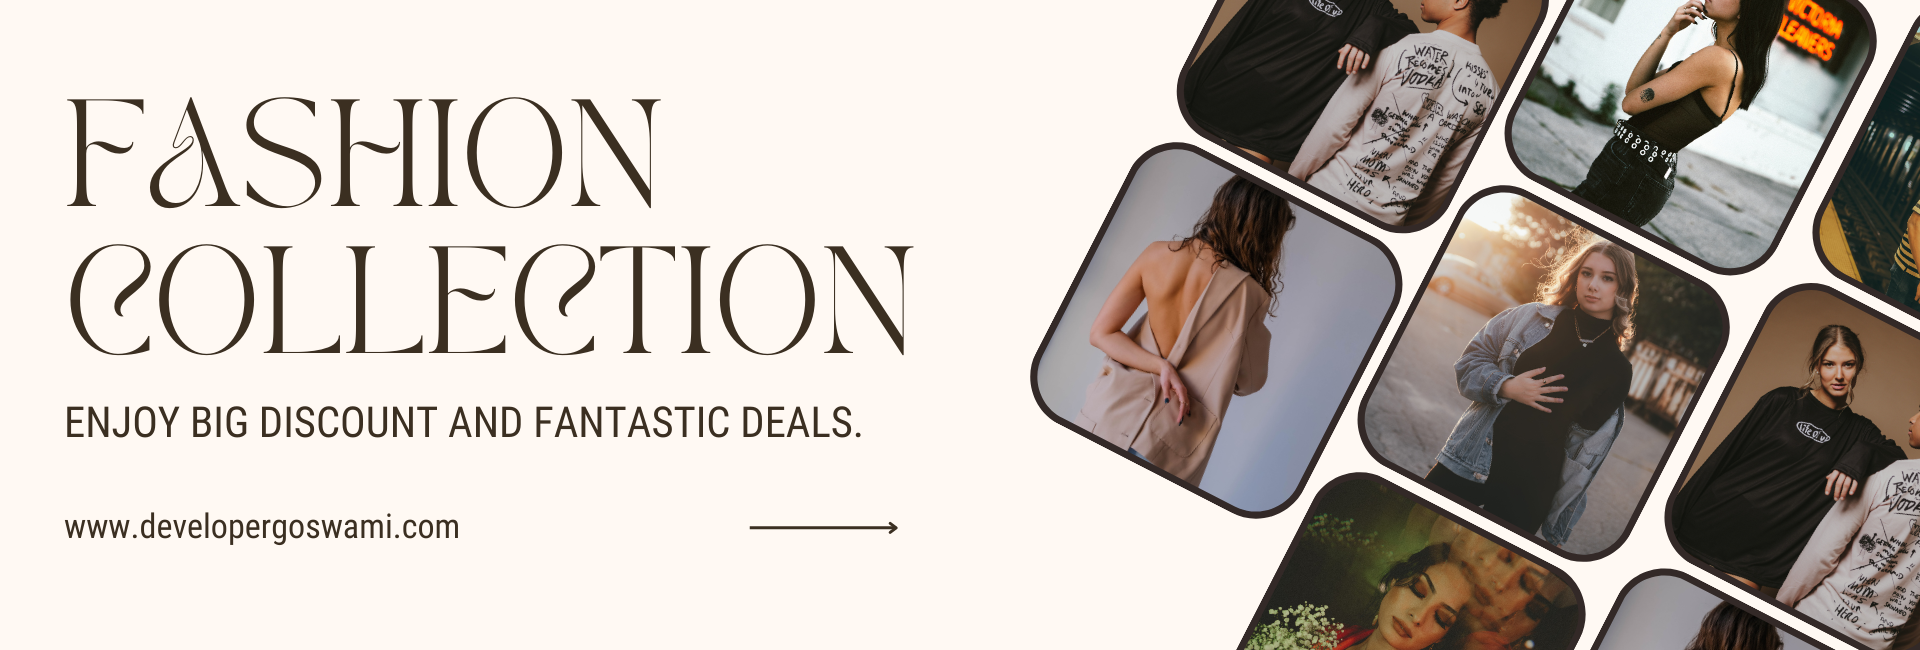
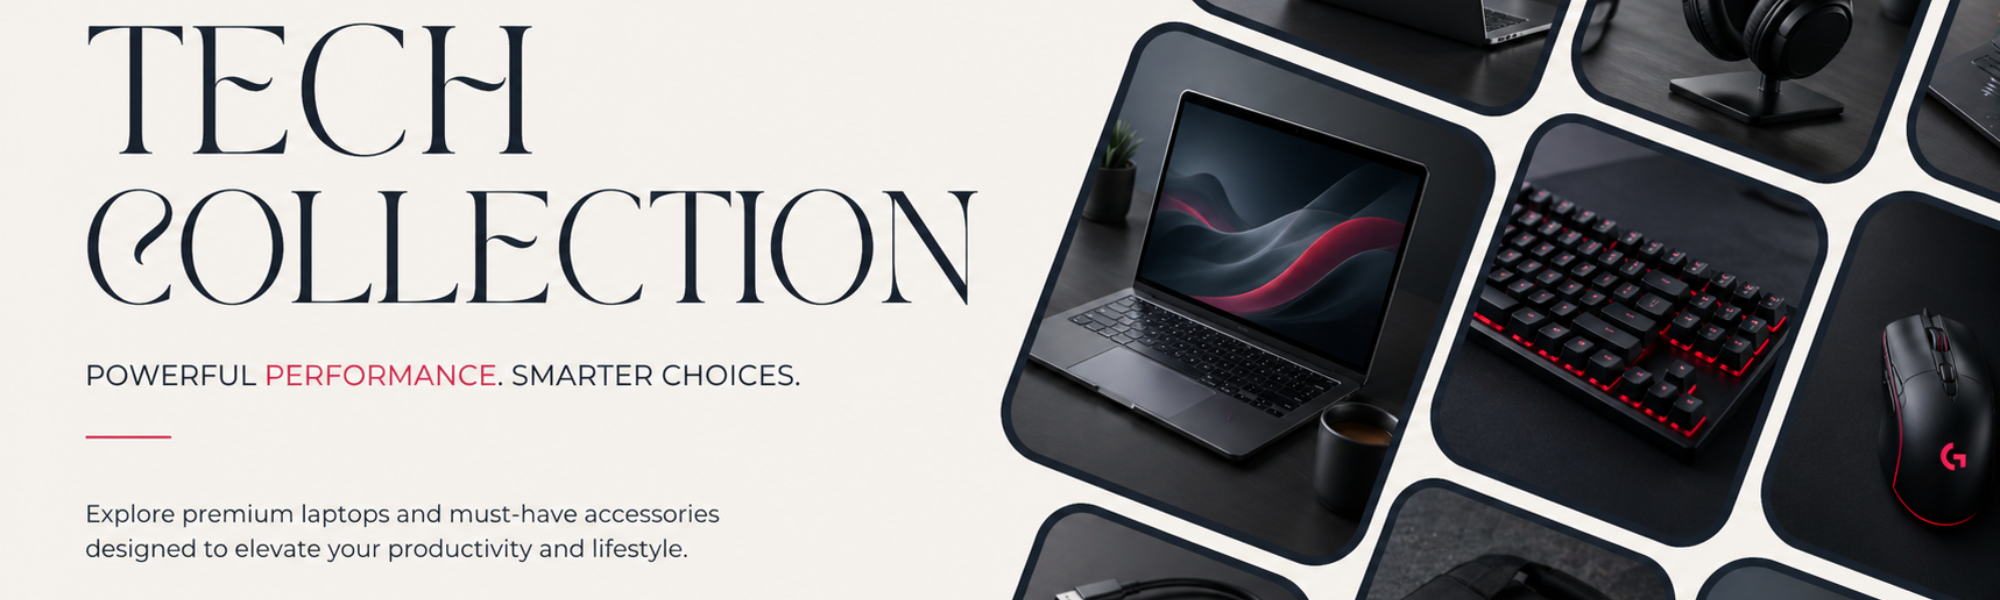
theme changed

diff --git a/components/Application/Website/Footer.jsx b/components/Application/Website/Footer.jsx
@@ -1,6 +1,6 @@
 import Image from 'next/image'
 import React from 'react'
-import logo from '@/public/assets/images/logo-black.png'
+import logo from '@/public/assets/images/Logo-White.png'
 import Link from 'next/link'
 import { IoLocationOutline } from "react-icons/io5";
 import { MdOutlinePhone } from "react-icons/md";
@@ -15,7 +15,7 @@ import { USER_DASHBOARD, WEBSITE_HOME, WEBSITE_LOGIN, WEBSITE_REGISTER, WEBSITE_
 const Footer = () => {
     return (
         <footer className='bg-gray-50 border-t'>
-            <div className='grid lg:grid-cols-5 md:grid-cols-2 grid-cols-1 gap-10 py-10 lg:px-32 px-4'>
+            <div className='grid lg:grid-cols-4 md:grid-cols-2 grid-cols-1 gap-10 py-10 lg:px-32 px-4'>
 
                 <div className='lg:col-span-1 md:col-span-2 col-span-1'>
                     <Image
@@ -30,27 +30,6 @@ const Footer = () => {
                     </p>
                 </div>
 
-
-                <div>
-                    <h4 className='text-xl font-bold uppercase mb-5'>Categories</h4>
-                    <ul>
-                        <li className='mb-2 text-gray-500'>
-                            <Link href={`${WEBSITE_SHOP}?category=t-shirts`}>T-shirt</Link>
-                        </li>
-                        <li className='mb-2 text-gray-500'>
-                            <Link href={`${WEBSITE_SHOP}?category=hoodies`}>Hoodies</Link>
-                        </li>
-                        <li className='mb-2 text-gray-500'>
-                            <Link href={`${WEBSITE_SHOP}?category=oversized`}>Oversized</Link>
-                        </li>
-                        <li className='mb-2 text-gray-500'>
-                            <Link href={`${WEBSITE_SHOP}?category=full-sleeves`}>Full Sleeves</Link>
-                        </li>
-                        <li className='mb-2 text-gray-500'>
-                            <Link href={`${WEBSITE_SHOP}?category=polo`}>Polo</Link>
-                        </li>
-                    </ul>
-                </div>
                 <div>
                     <h4 className='text-xl font-bold uppercase mb-5'>Userfull Links</h4>
                     <ul>
@@ -139,7 +118,7 @@ const Footer = () => {
 
 
             <div className='py-5 bg-gray-100' >
-                <p className='text-center'>© 2024 Estore. All Rights Reserved.</p>
+                <p className='text-center'>© 2026 myTechSathi. All Rights Reserved.</p>
             </div>
 
         </footer>

diff --git a/components/Application/Website/MainSlider.jsx b/components/Application/Website/MainSlider.jsx
@@ -3,11 +3,13 @@ import React from 'react'
 import "slick-carousel/slick/slick.css";
 import "slick-carousel/slick/slick-theme.css";
 import Slider from "react-slick";
+import Link from 'next/link';
+import { USER_DASHBOARD, WEBSITE_HOME, WEBSITE_LOGIN, WEBSITE_REGISTER, WEBSITE_SHOP } from '@/routes/WebsiteRoute'
+import slider1 from '@/public/assets/images/Slider-1.png'
+import slider2 from '@/public/assets/images/Slider-2.png'
+import slider3 from '@/public/assets/images/Slider-3.png'
+import slider4 from '@/public/assets/images/Slider-4.png'
 
-import slider1 from '@/public/assets/images/slider-1.png'
-import slider2 from '@/public/assets/images/slider-2.png'
-import slider3 from '@/public/assets/images/slider-3.png'
-import slider4 from '@/public/assets/images/slider-4.png'
 import Image from 'next/image';
 import { LuChevronRight } from "react-icons/lu";
 import { LuChevronLeft } from "react-icons/lu";
@@ -55,16 +57,24 @@ const MainSlider = () => {
         <div>
             <Slider {...settings}>
                 <div>
-                    <Image src={slider1.src} width={slider1.width} height={slider1.height} alt='slider 1' />
+                    <Link href={WEBSITE_SHOP}>
+                        <Image src={slider1.src} width={slider1.width} height={slider1.height} alt='slider 1' />
+                    </Link>
                 </div>
                 <div>
-                    <Image src={slider2.src} width={slider2.width} height={slider2.height} alt='slider 2' />
+                    <Link href={WEBSITE_SHOP}>
+                        <Image src={slider2.src} width={slider2.width} height={slider2.height} alt='slider 2' />
+                    </Link> 
                 </div>
                 <div>
-                    <Image src={slider3.src} width={slider3.width} height={slider3.height} alt='slider 3' />
+                    <Link href={WEBSITE_SHOP}>
+                        <Image src={slider3.src} width={slider3.width} height={slider3.height} alt='slider 3' />
+                    </Link>
                 </div>
                 <div>
-                    <Image src={slider4.src} width={slider4.width} height={slider4.height} alt='slider 4' />
+                    <Link href={WEBSITE_SHOP}>
+                        <Image src={slider4.src} width={slider4.width} height={slider4.height} alt='slider 4' />
+                    </Link>
                 </div>
             </Slider>
         </div>

diff --git a/app/layout.jsx b/app/layout.jsx
@@ -7,10 +7,25 @@ const assistantFont = Assistant({
   subsets: ['latin'],
   display: 'swap'
 })
-
 export const metadata = {
-  title: "Create Next App",
-  description: "Generated by create next app",
+  title: "myTechsathi - Best Tech Store",
+  description: "Buy laptops, gadgets, and accessories at the best price.",
+  keywords: ["laptops", "gadgets", "tech store", "myTechsathi"],
+  authors: [{ name: "myTechsathi" }],
+  openGraph: {
+    title: "myTechsathi",
+    description: "Best tech products online",
+    url: "https://mytechsathi.com",
+    siteName: "myTechsathi",
+    images: [
+      {
+        url: "/og-image.png",
+        width: 1200,
+        height: 630,
+      },
+    ],
+    type: "website",
+  },
 };
 
 export default function RootLayout({ children }) {

diff --git a/components/Application/Website/Testimonial.jsx b/components/Application/Website/Testimonial.jsx
@@ -9,52 +9,52 @@ import { BsChatQuote } from "react-icons/bs";
 
 const testimonials = [
     {
-        name: "Sophia Patel",
+        name: "Sonia Patel",
         review: "This product exceeded my expectations. The quality is top-notch and it arrived much faster than I anticipated. I will definitely be recommending it to my friends and family.",
         rating: 5
     },
     {
-        name: "James Thompson",
+        name: "Trisanka Bhaskar",
         review: "Customer service was extremely helpful and responsive. They guided me through every step of the process. I'm very satisfied with the support I received.",
         rating: 4
     },
     {
-        name: "Emily Chen",
+        name: "Raj Bhardwaj",
         review: "I’ve been using this service for over a month now and it’s been amazing. The user interface is intuitive and everything runs smoothly. I haven’t faced any major issues so far.",
         rating: 5
     },
     {
-        name: "Liam Rodriguez",
+        name: "Mayank",
         review: "Honestly, I was skeptical at first, but it turned out great. The features offered are well worth the price. There is room for improvement, but overall I’m happy with it.",
         rating: 4
     },
     {
-        name: "Ava Johnson",
+        name: "Aman",
         review: "The attention to detail is impressive. From packaging to performance, everything was handled professionally. I feel like I got great value for my money.",
         rating: 5
     },
     {
-        name: "Noah Davis",
+        name: "Dhruv DC",
         review: "There were a few hiccups during setup, but the documentation helped a lot. Once everything was in place, it worked flawlessly. I'm a satisfied customer now.",
         rating: 4
     },
     {
-        name: "Isabella Martinez",
+        name: "Arun Pandey",
         review: "What stood out the most was how easy it was to get started. The onboarding process is smooth and well thought out. I appreciated the thoughtful design.",
         rating: 5
     },
     {
-        name: "William Lee",
+        name: "Mamta Sharma",
         review: "It does what it promises, no complaints there. The pricing is fair and the customer experience is excellent. I’ll be coming back for future purchases.",
         rating: 4
     },
     {
-        name: "Mia Anderson",
+        name: "Karan",
         review: "I encountered a few bugs in the beginning, but support helped fix them quickly. Now everything works perfectly. The team really listens to feedback.",
         rating: 4
     },
     {
-        name: "Ethan Clark",
+        name: "Sonal",
         review: "This has been one of the best investments I’ve made recently. The performance is consistent and it integrates seamlessly with my workflow. Highly recommended!",
         rating: 5
     }

diff --git a/app/(root)/(website)/page.jsx b/app/(root)/(website)/page.jsx
@@ -2,20 +2,20 @@ import MainSlider from '@/components/Application/Website/MainSlider'
 import Image from 'next/image'
 import Link from 'next/link'
 import React from 'react'
-import banner1 from '@/public/assets/images/banner1.png'
-import banner2 from '@/public/assets/images/banner2.png'
+import banner1 from '@/public/assets/images/Banner-1.png'
+import banner2 from '@/public/assets/images/Banner-2.png'
 import FeaturedProduct from '@/components/Application/Website/FeaturedProduct'
-import advertisingBanner from '@/public/assets/images/advertising-banner.png'
+import advertisingBanner from '@/public/assets/images/add-banner.png'
 import Testimonial from '@/components/Application/Website/Testimonial'
-
 import { GiReturnArrow } from "react-icons/gi";
 import { FaShippingFast } from "react-icons/fa";
 import { BiSupport } from "react-icons/bi";
 import { TbRosetteDiscountFilled } from "react-icons/tb";
+import { USER_DASHBOARD, WEBSITE_HOME, WEBSITE_LOGIN, WEBSITE_REGISTER, WEBSITE_SHOP } from '@/routes/WebsiteRoute'
 
 const Home = () => {
     return (
-        <>
+        <div>
             <section>
                 <MainSlider />
             </section>
@@ -23,7 +23,7 @@ const Home = () => {
                 <div className='grid grid-cols-2 sm:gap-10 gap-2'>
 
                     <div className='border rounded-lg overflow-hidden'>
-                        <Link href="" >
+                        <Link href={WEBSITE_SHOP} >
                             <Image
                                 src={banner1.src}
                                 width={banner1.width}
@@ -34,7 +34,7 @@ const Home = () => {
                         </Link>
                     </div>
                     <div className='border rounded-lg overflow-hidden'>
-                        <Link href="" >
+                        <Link href={WEBSITE_SHOP} >
                             <Image
                                 src={banner2.src}
                                 width={banner2.width}
@@ -95,7 +95,7 @@ const Home = () => {
                 </div>
             </section>
 
-        </>
+        </div>
     )
 }
 

diff --git a/components/Application/Admin/Topbar.jsx b/components/Application/Admin/Topbar.jsx
@@ -6,8 +6,8 @@ import { Button } from '@/components/ui/button'
 import { RiMenu4Fill } from "react-icons/ri";
 import { useSidebar } from '@/components/ui/sidebar';
 import AdminSearch from './AdminSearch'
-import logoBlack from '@/public/assets/images/logo-black.png'
-import logoWhite from '@/public/assets/images/logo-white.png'
+import logoBlack from '@/public/assets/images/Logo-Black.png'
+import logoWhite from '@/public/assets/images/Logo-White.png'
 import Image from 'next/image'
 import AdminMobileSearch from './AdminMobileSearch'
 const Topbar = () => {

diff --git a/components/Application/Website/FeaturedProduct.jsx b/components/Application/Website/FeaturedProduct.jsx
@@ -3,6 +3,7 @@ import Link from 'next/link'
 import React from 'react'
 import { IoIosArrowRoundForward } from "react-icons/io";
 import ProductBox from './ProductBox';
+import { USER_DASHBOARD, WEBSITE_HOME, WEBSITE_LOGIN, WEBSITE_REGISTER, WEBSITE_SHOP } from '@/routes/WebsiteRoute'
 
 const FeaturedProduct = async () => {
     let productData = null
@@ -18,7 +19,7 @@ const FeaturedProduct = async () => {
         <section className='lg:px-32 px-4 sm:py-10'>
             <div className='flex justify-between items-center mb-5'>
                 <h2 className='sm:text-4xl text-2xl font-semibold'>Featured Products</h2>
-                <Link href="" className='flex items-center gap-2 underline underline-offset-4 hover:text-primary'>
+                <Link href={WEBSITE_SHOP} className='flex items-center gap-2 underline underline-offset-4 hover:text-primary'>
                     View All
                     <IoIosArrowRoundForward />
                 </Link>

diff --git a/components/Application/Website/Header.jsx b/components/Application/Website/Header.jsx
@@ -3,7 +3,7 @@ import { USER_DASHBOARD, WEBSITE_HOME, WEBSITE_LOGIN, WEBSITE_SHOP } from '@/rou
 import Image from 'next/image'
 import Link from 'next/link'
 import React, { useState } from 'react'
-import logo from '@/public/assets/images/logo-black.png'
+import logo from '@/public/assets/images/Logo-White.png'
 import { IoIosSearch } from "react-icons/io";
 import Cart from './Cart'
 import { VscAccount } from "react-icons/vsc";

diff --git a/components/Application/Website/WebsiteBreadcrumb.jsx b/components/Application/Website/WebsiteBreadcrumb.jsx
@@ -4,7 +4,7 @@ import React from 'react'
 
 const WebsiteBreadcrumb = ({ props }) => {
     return (
-        <div className="py-10 flex justify-center items-center bg-[url('/assets/images/page-title.png')] bg-cover bg-center">
+        <div className="py-10 flex justify-center items-center bg-[url('/assets/images/Page-Title.png')] bg-cover bg-center">
 
             <div>
                 <h1 className='text-2xl font-semibold mb-2 text-center'>{props.title}</h1>